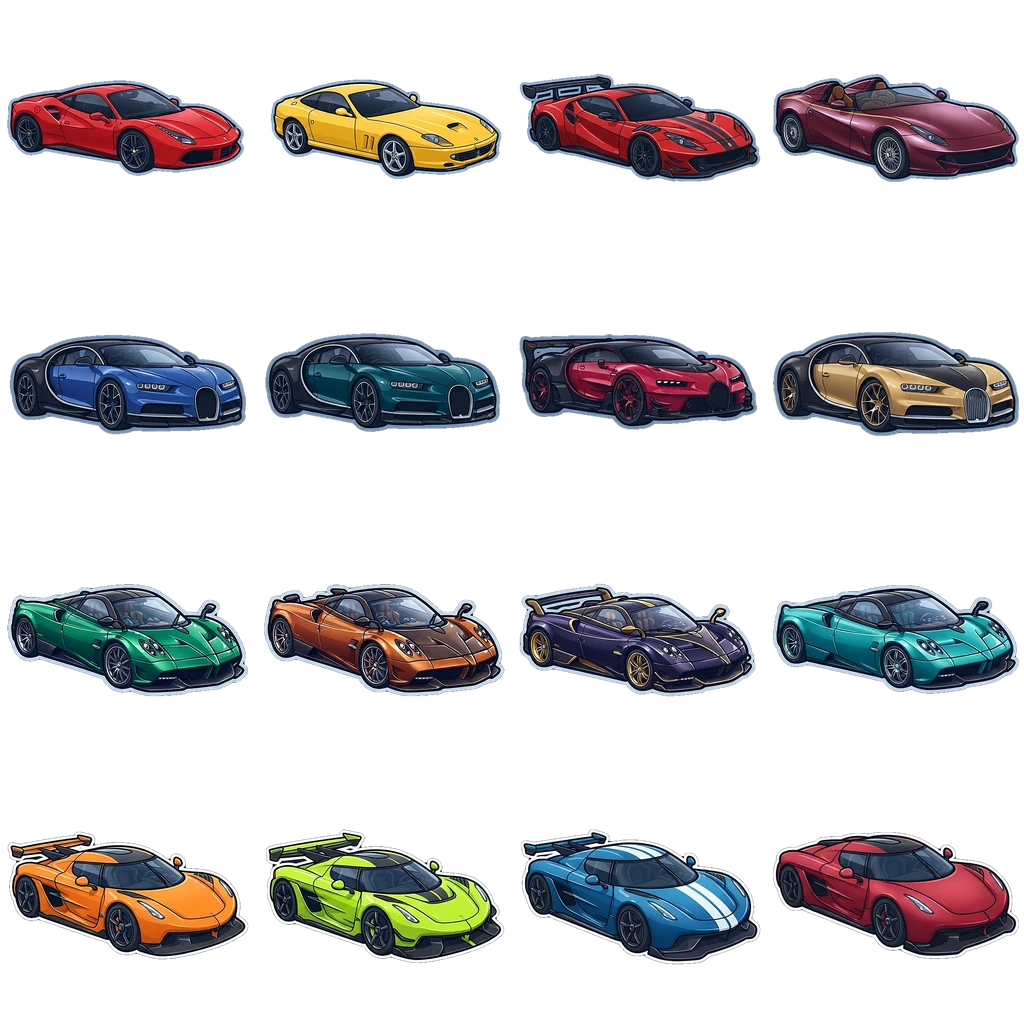
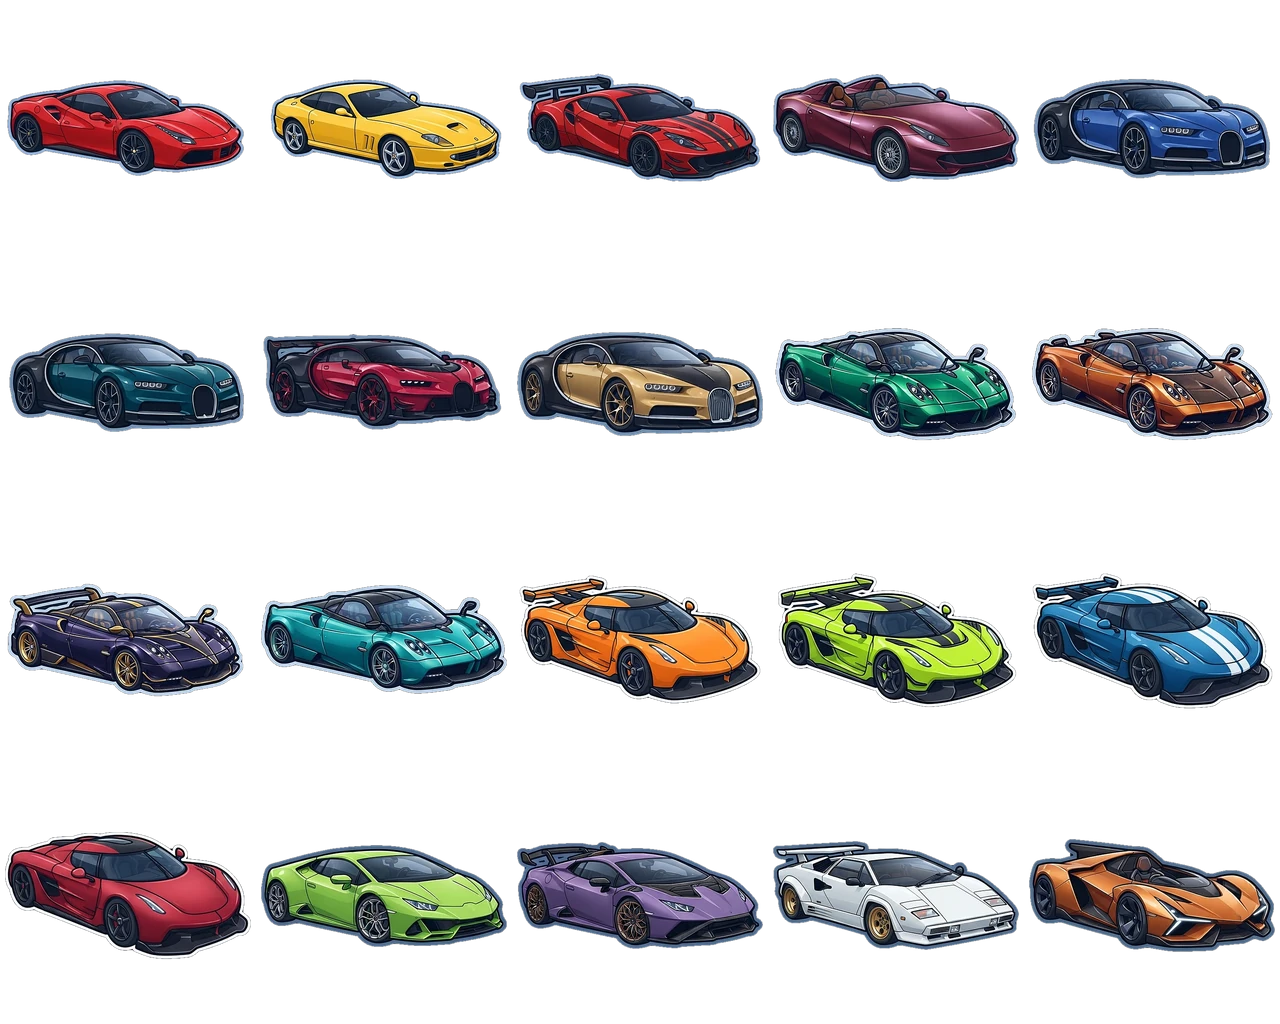
Torrente marque: 4 wedge supercars up to the 500M one-off single-seater
Claude-Session: https://claude.ai/code/session_01Xjr8JiaSLqG2KUHnpRrdww

diff --git a/hustleville/game.js b/hustleville/game.js
@@ -36,7 +36,7 @@ const ART = {
   itA: { src: 'assets/runway/ui/items-a.jpg', cols: 5, rows: 3 },
   itB: { src: 'assets/runway/ui/items-b.jpg', cols: 5, rows: 3 },
   itC: { src: 'assets/runway/ui/items-c.jpg', cols: 5, rows: 3 },
-  lux: { src: 'assets/garage/lux-icons.webp', cols: 4, rows: 4 }
+  lux: { src: 'assets/garage/lux-icons.webp', cols: 5, rows: 4 }
 };
 const BANNERS = { hubs: { src: 'assets/runway/ui/hub-banners.png', pos: [10, 50, 90] }, social: { src: 'assets/runway/ui/social-banners.png', pos: [20, 80] } };
 function bannerHTML(key, idx) { const a = BANNERS[key]; return a && a.ok ? `<div class="banner" style="background-image:url(${a.src});background-position:center ${a.pos[idx]}%"></div>` : ''; }
@@ -639,7 +639,7 @@ function buyBlock(it, i) {
 function assetsHTML() {
   const cat = ASSETS[UI.cat];
   let h = '<div class="chips scroll">' + Object.keys(ASSETS).map(k => `<button class="${UI.cat === k ? 'on' : ''}" data-a="cat" data-v="${k}">${ASSETS[k].icon}<small>${ASSETS[k].label}</small></button>`).join('') + '</div>';
-  const BRANDS = ['Scarlatti', 'Bellucci', 'Zeffiro', 'Kronvik'], BRAND_BLURB = { Scarlatti: '🇮🇹 Red-blooded Italian V8 & V12 legends', Bellucci: '🇫🇷 Horseshoe-grille ultra-luxury hypercars', Zeffiro: '🇮🇹 Hand-built carbon-fibre art pieces', Kronvik: '🇸🇪 Wing-heavy Scandinavian speed machines' };
+  const BRANDS = ['Scarlatti', 'Bellucci', 'Zeffiro', 'Kronvik', 'Torrente'], BRAND_BLURB = { Scarlatti: '🇮🇹 Red-blooded Italian V8 & V12 legends', Bellucci: '🇫🇷 Horseshoe-grille ultra-luxury hypercars', Zeffiro: '🇮🇹 Hand-built carbon-fibre art pieces', Kronvik: '🇸🇪 Wing-heavy Scandinavian speed machines', Torrente: '🇮🇹 Razor-edged raging-bull wedge supercars' };
   const order = UI.cat === 'car' ? cat.items.map((it, i) => ({ it, i })).sort((x, y) => (BRANDS.indexOf(x.it.brand) + 1) - (BRANDS.indexOf(y.it.brand) + 1) || x.it.tier - y.it.tier || x.i - y.i) : cat.items.map((it, i) => ({ it, i }));
   let lastBrand = null;
   h += `<div class="agrid">`;
@@ -658,7 +658,7 @@ function assetsHTML() {
   });
   return h + '</div>';
 }
-const brandRank = (a) => { const it = findItem(a.cat, a.n); return it && it.brand ? ['Scarlatti', 'Bellucci', 'Zeffiro', 'Kronvik'].indexOf(it.brand) + 1 : 0; };
+const brandRank = (a) => { const it = findItem(a.cat, a.n); return it && it.brand ? ['Scarlatti', 'Bellucci', 'Zeffiro', 'Kronvik', 'Torrente'].indexOf(it.brand) + 1 : 0; };
 function stuffHTML() {
   if (!S.assets.length) return '<div class="note">You do not own anything yet. Buy something in the Shop, then come back here to use it, upgrade it, rent it out or sell it.</div>';
   let h = '', last = null;

diff --git a/hustleville/data.js b/hustleville/data.js
@@ -134,7 +134,11 @@ const ASSETS = {
     I('Kronvik Aurora', '🏁', 4800000, { sh: 'lux', sp: 12, brand: 'Kronvik', tier: 0, req: 0, up: 0.03, dep: 0, happy: 10, fame: 6, acts: ['custom', 'service', 'roadtrip', 'race'] }),
     I('Kronvik Frost', '🏁', 16000000, { sh: 'lux', sp: 13, brand: 'Kronvik', tier: 1, req: 40000000, up: 0.025, dep: 0.01, happy: 12, fame: 10, acts: ['custom', 'service', 'roadtrip', 'race'] }),
     I('Kronvik Valkyr', '🏁', 62000000, { sh: 'lux', sp: 14, brand: 'Kronvik', tier: 2, req: 150000000, up: 0.02, dep: 0.025, happy: 15, fame: 16, acts: ['custom', 'service', 'roadtrip', 'race'] }),
-    I('Kronvik Ragnarok Unica', '🏁', 185000000, { sh: 'lux', sp: 15, brand: 'Kronvik', tier: 3, req: 400000000, unique: true, up: 0.015, dep: 0.05, vol: 0.06, happy: 20, fame: 30, acts: ['custom', 'service', 'roadtrip', 'race'] })
+    I('Kronvik Ragnarok Unica', '🏁', 185000000, { sh: 'lux', sp: 15, brand: 'Kronvik', tier: 3, req: 400000000, unique: true, up: 0.015, dep: 0.05, vol: 0.06, happy: 20, fame: 30, acts: ['custom', 'service', 'roadtrip', 'race'] }),
+    I('Torrente Furioso', '🏁', 4400000, { sh: 'lux', sp: 16, brand: 'Torrente', tier: 0, req: 0, up: 0.03, dep: 0, happy: 11, fame: 8, acts: ['custom', 'service', 'roadtrip', 'race'] }),
+    I('Torrente Sangue SVJ', '🏁', 24000000, { sh: 'lux', sp: 17, brand: 'Torrente', tier: 1, req: 40000000, up: 0.025, dep: 0.01, happy: 13, fame: 12, acts: ['custom', 'service', 'roadtrip', 'race'] }),
+    I('Torrente Contatto LP', '🏁', 85000000, { sh: 'lux', sp: 18, brand: 'Torrente', tier: 2, req: 150000000, up: 0.02, dep: 0.025, happy: 16, fame: 20, acts: ['custom', 'service', 'roadtrip', 'race'] }),
+    I('Torrente Egocentro Unica', '🏁', 500000000, { sh: 'lux', sp: 19, brand: 'Torrente', tier: 3, req: 400000000, unique: true, vol: 0.06, up: 0.015, dep: 0.05, happy: 25, fame: 40, acts: ['custom', 'service', 'roadtrip', 'race'] })
   ] },
   boat: { label: 'Boats', icon: '🛥', acts: ['sail', 'party', 'service', 'rent'], items: [
     I('Jet Ski', '🚤', 15000, { sh: 'itA', sp: 8, up: 0.08, dep: -0.1, happy: 4 }),

diff --git a/hustleville/garage.js b/hustleville/garage.js
@@ -5,7 +5,7 @@
 
 const Garage = (() => {
   const DIR = 'assets/garage/';
-  const CAR_KEY = { 'Used Hatchback': 'hatch', 'Family Sedan': 'sedan', 'Luxury SUV': 'suv', 'Sports Coupe': 'coupe', 'Lamborghini': 'lambo', 'Bugatti Chiron': 'bugatti', 'Motorbike': 'bike', 'Pickup Truck': 'pickup', 'Scarlatti Stradale GT': 'scar0', 'Scarlatti Mirasole V12': 'scar1', 'Scarlatti Tempesta SF': 'scar2', 'Scarlatti Fenice Unica': 'scar3', 'Bellucci Aurelle': 'bell0', 'Bellucci Orion': 'bell1', 'Bellucci Sovrano': 'bell2', 'Bellucci Mirage Unica': 'bell3', 'Zeffiro Aria': 'zef0', 'Zeffiro Scirocco': 'zef1', 'Zeffiro Maestrale': 'zef2', 'Zeffiro Libeccio Unica': 'zef3', 'Kronvik Aurora': 'kron0', 'Kronvik Frost': 'kron1', 'Kronvik Valkyr': 'kron2', 'Kronvik Ragnarok Unica': 'kron3', 'Classic Muscle Car': 'muscle', 'Rolls-Royce': 'rolls' };
+  const CAR_KEY = { 'Used Hatchback': 'hatch', 'Family Sedan': 'sedan', 'Luxury SUV': 'suv', 'Sports Coupe': 'coupe', 'Lamborghini': 'lambo', 'Bugatti Chiron': 'bugatti', 'Motorbike': 'bike', 'Pickup Truck': 'pickup', 'Scarlatti Stradale GT': 'scar0', 'Scarlatti Mirasole V12': 'scar1', 'Scarlatti Tempesta SF': 'scar2', 'Scarlatti Fenice Unica': 'scar3', 'Bellucci Aurelle': 'bell0', 'Bellucci Orion': 'bell1', 'Bellucci Sovrano': 'bell2', 'Bellucci Mirage Unica': 'bell3', 'Zeffiro Aria': 'zef0', 'Zeffiro Scirocco': 'zef1', 'Zeffiro Maestrale': 'zef2', 'Zeffiro Libeccio Unica': 'zef3', 'Kronvik Aurora': 'kron0', 'Kronvik Frost': 'kron1', 'Kronvik Valkyr': 'kron2', 'Kronvik Ragnarok Unica': 'kron3', 'Torrente Furioso': 'tor0', 'Torrente Sangue SVJ': 'tor1', 'Torrente Contatto LP': 'tor2', 'Torrente Egocentro Unica': 'tor3', 'Classic Muscle Car': 'muscle', 'Rolls-Royce': 'rolls' };
   const PAINTS = [
     { n: 'Stock' },
     { n: 'Crimson', c: [205, 22, 40] }, { n: 'Orange', c: [255, 112, 18] }, { n: 'Sunshine', c: [255, 204, 0] }, { n: 'Lime', c: [112, 222, 36] },
